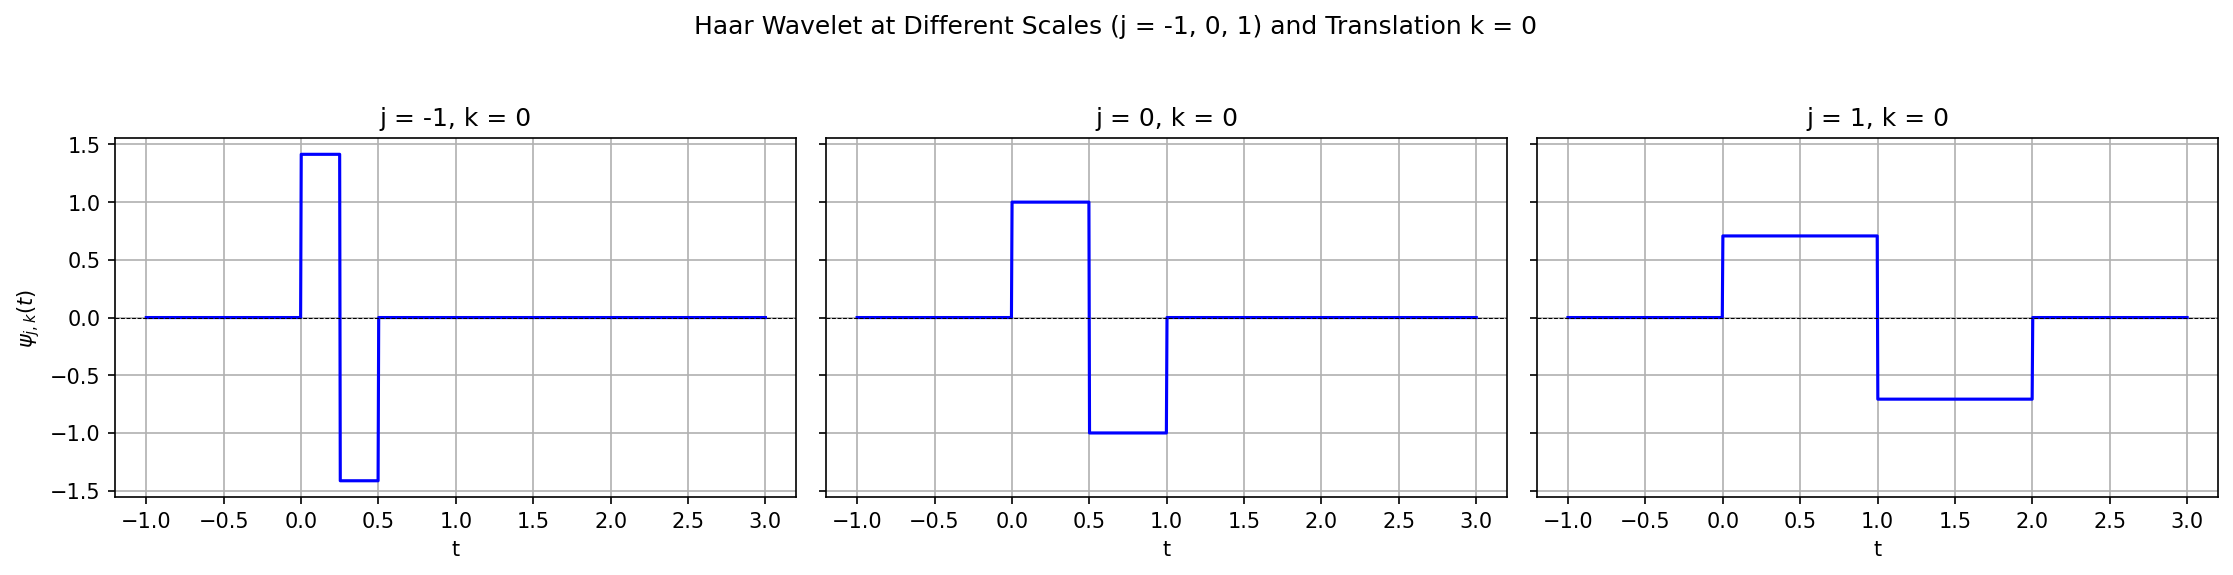
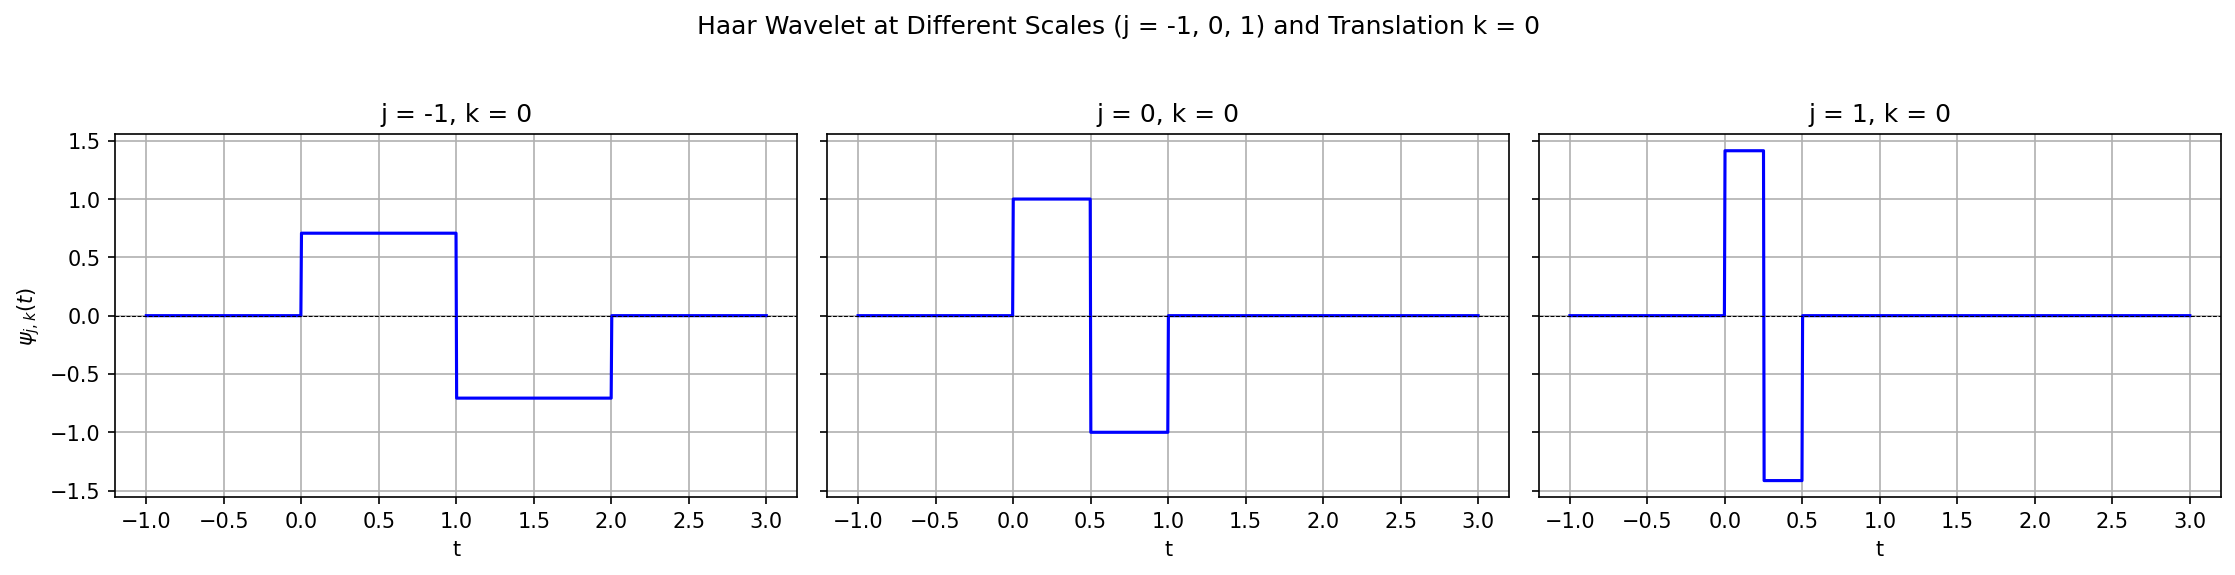
fix haar plot

diff --git a/correct_signal.py b/correct_signal.py
@@ -3,8 +3,6 @@ from scipy.fft import fft, fftfreq
 import numpy as np
 import matplotlib.pyplot as plt
 
-time = np.linspace(0, 10, 10000)
-
 # Create a sample signal
 # t_red = np.linspace(0, 5, num=500)
 # t_yellow = np.linspace(5, 6, num=100)
@@ -22,7 +20,6 @@ def signal(t):
     else:
         return np.sin(4 * np.pi * t)
 
-# FT OF SIGNAL
 
 # x = np.linspace(0, 10, 10000)
 # y = fft([signal(t) for t in x])
@@ -33,8 +30,6 @@ def signal(t):
 # plt.xlim(-10, 10)
 # plt.show()
 
-
-# RAW SIGNAL
 
 # x_red = np.linspace(0, 5, 5000)
 # x_green = np.linspace(5, 9, 4000)
@@ -52,21 +47,17 @@ def signal(t):
 # plt.yticks([])
 # plt.show()
 
-
-# CWT
-scales = np.geomspace(128, 1536, num=100)
-x_vals = [signal(t) for t in time]
+# # Perform CWT
+scales = np.arange(1, 128)
+x_vals = [signal(t) for t in np.linspace(0, 10, 10000)]
 wavelet = 'cmor1.5-1.0'
-sampling_period = np.diff(time).mean()
-coef, freqs = pywt.cwt(x_vals, scales, wavelet, sampling_period=sampling_period)
+coef, freqs = pywt.cwt(x_vals, scales, wavelet, sampling_period=10)
 coef = np.abs(coef[:-1, :-1])
 
 # Plot the CWT
-fig, axs = plt.subplots(1, 1)
-pcm = axs.pcolormesh(time, freqs, coef)
-axs.set_yscale("log", base=2)
-axs.set_xlabel("Time (s)")
-axs.set_ylabel("Frequency (Hz)")
-axs.set_title("Wavelet Transform of Correct Signal")
-fig.colorbar(pcm, ax=axs)
+plt.imshow(coef, extent=[0, 10, 1, 128], cmap='viridis', aspect='auto', interpolation='nearest')
+plt.colorbar(label='CWT Coefficients')
+plt.xlabel('Time')
+plt.ylabel('Scale')
+plt.title('Continuous Wavelet Transform')
 plt.show()

diff --git a/haar.py b/haar.py
@@ -1,0 +1,28 @@
+import numpy as np
+import matplotlib.pyplot as plt
+
+def haar_wavelet_corrected(t, j, k):
+    scale = 2**j
+    t_scaled = t * scale - k
+    return np.where((t_scaled >= 0) & (t_scaled < 0.5), np.sqrt(scale),
+           np.where((t_scaled >= 0.5) & (t_scaled < 1), -np.sqrt(scale), 0))
+
+t_values = np.linspace(-1, 3, 1000)  # Range of t for visualization
+
+scales_updated = [-1, 0, 1]
+k = 0 
+
+fig, axs = plt.subplots(1, len(scales_updated), figsize=(15, 4), sharey=True)
+
+for ax, j in zip(axs, scales_updated):
+    wavelet_values_corrected = haar_wavelet_corrected(t_values, j, k)
+    ax.plot(t_values, wavelet_values_corrected, color="blue")
+    ax.set_title(f"j = {j}, k = {k}")
+    ax.axhline(0, color="black", linewidth=0.5, linestyle="--")
+    ax.grid(True)
+    ax.set_xlabel("t")
+
+fig.suptitle("Haar Wavelet at Different Scales (j = -1, 0, 1) and Translation k = 0")
+axs[0].set_ylabel(r"$\psi_{j,k}(t)$")
+plt.tight_layout(rect=[0, 0.03, 1, 0.95]) 
+plt.savefig('bryant_figures/harr.png', dpi=150, bbox_inches='tight')  # You can use .png, .jpg, .pdf, etc.
